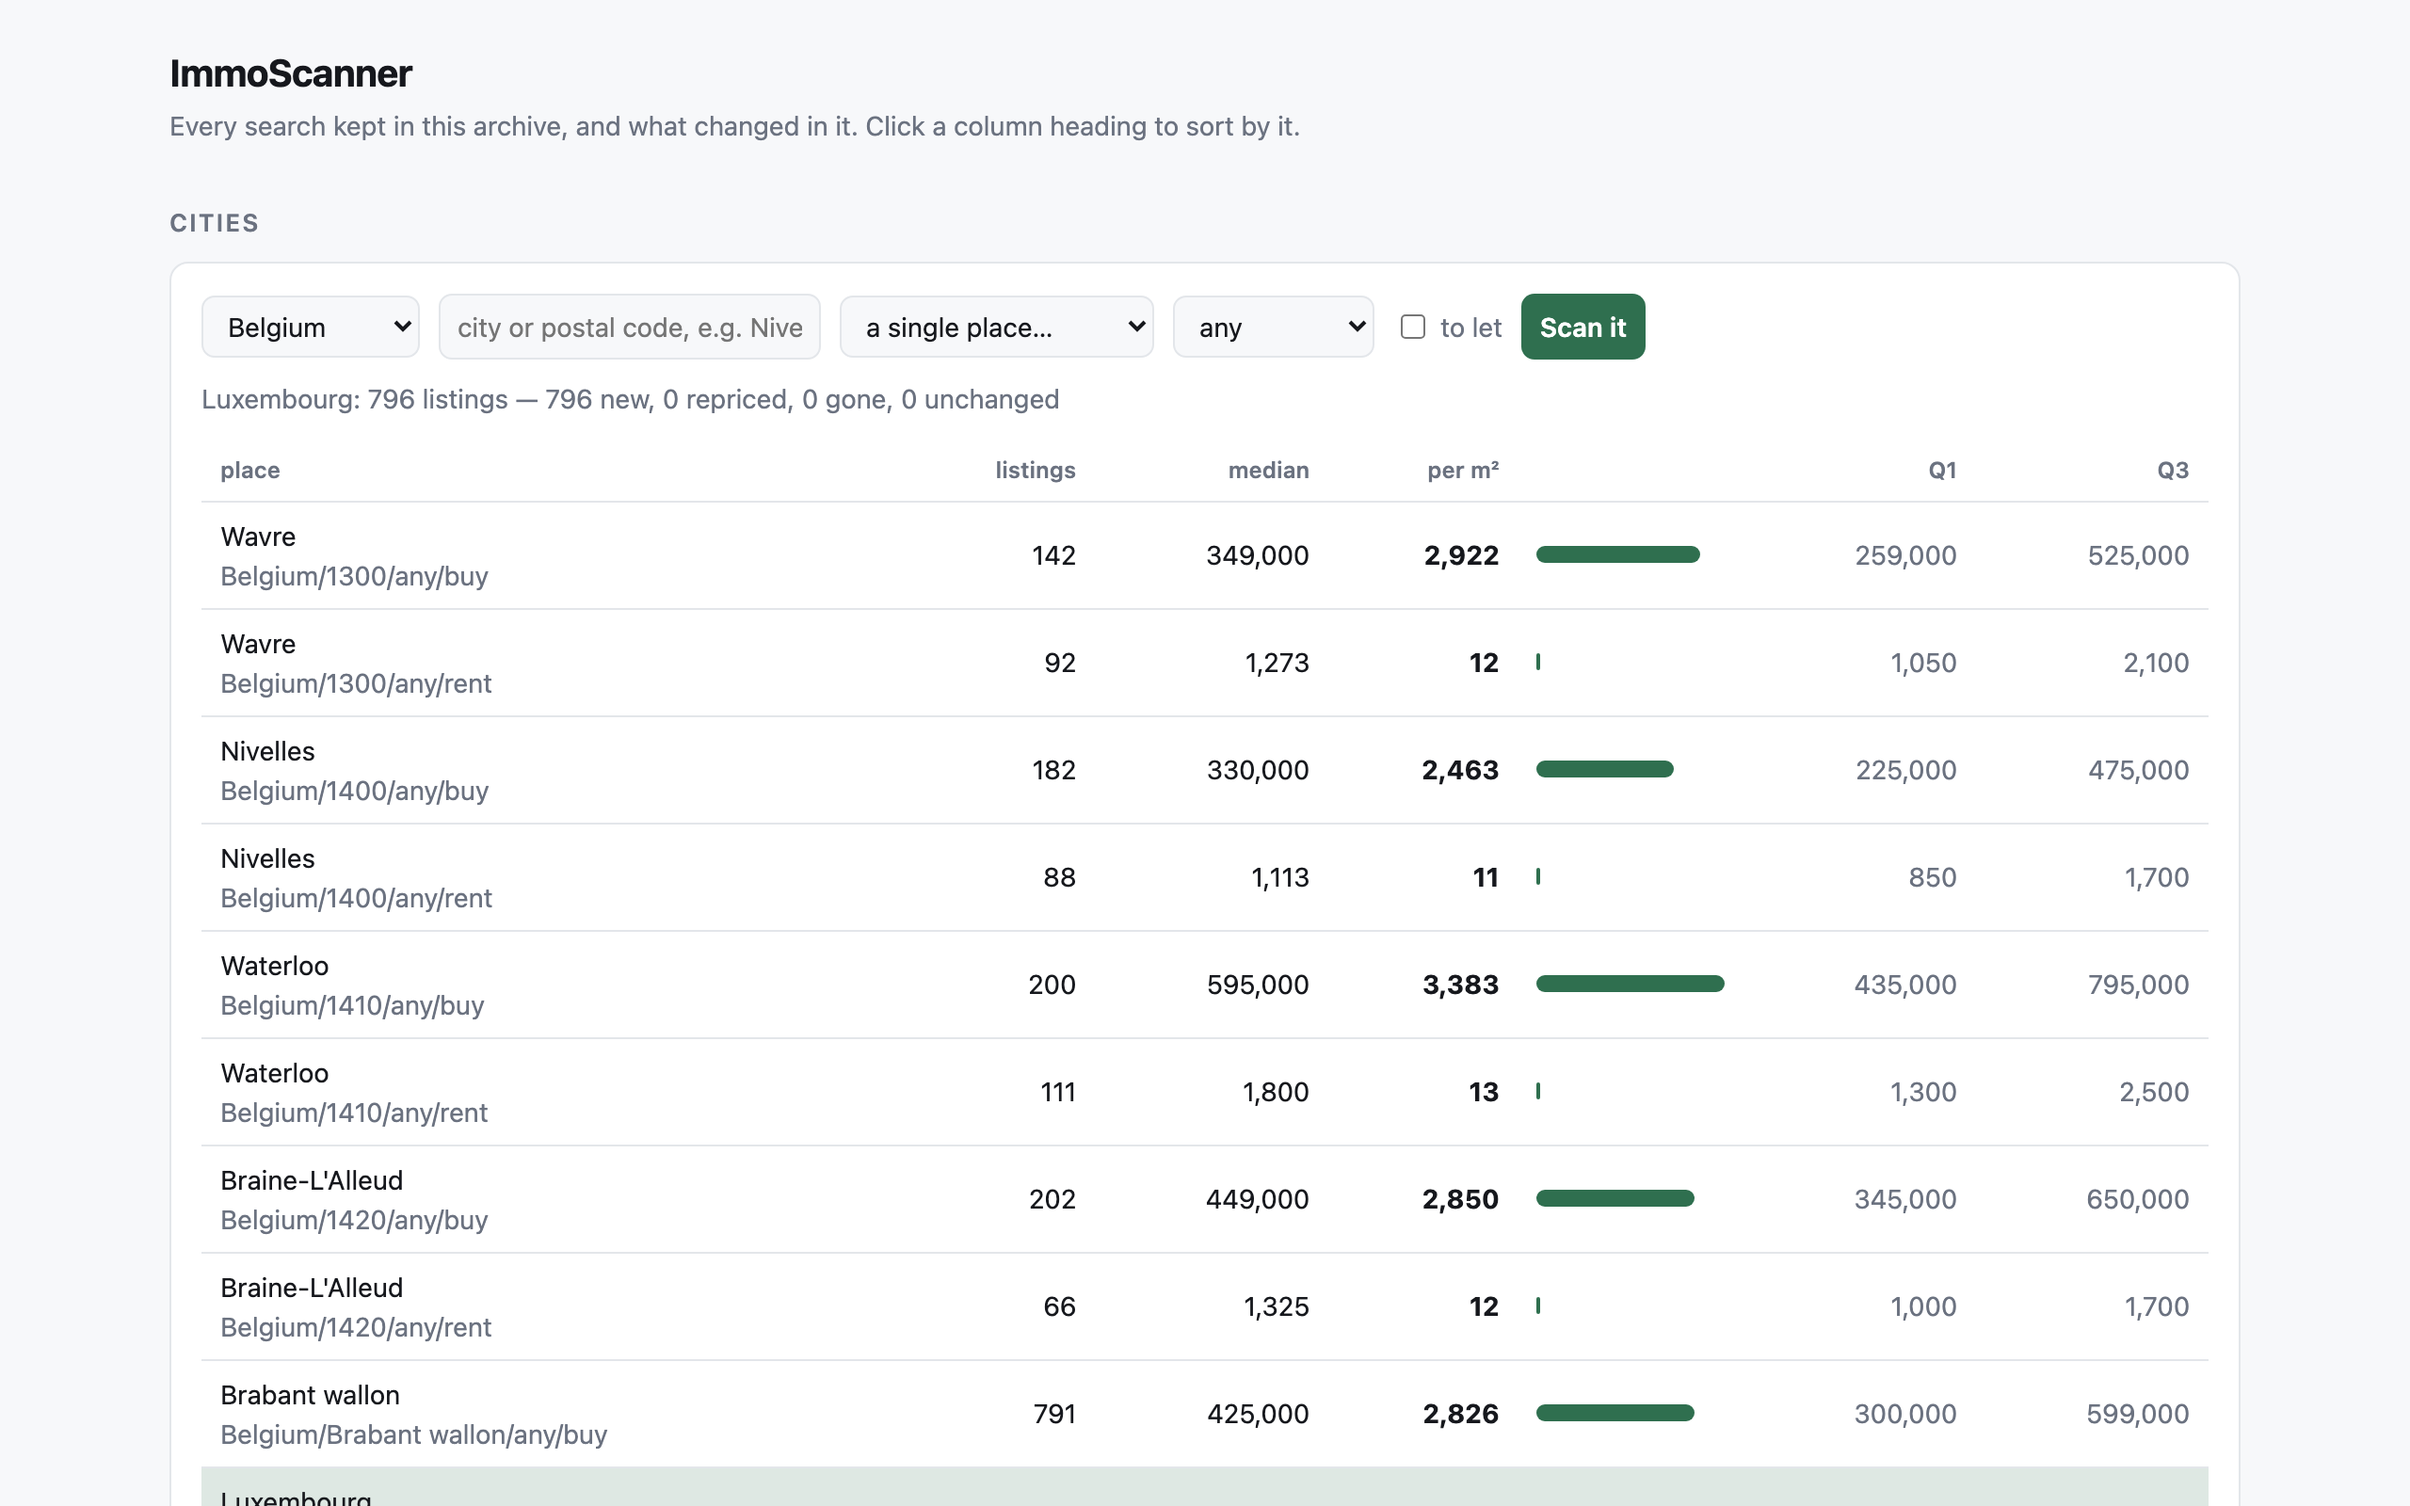
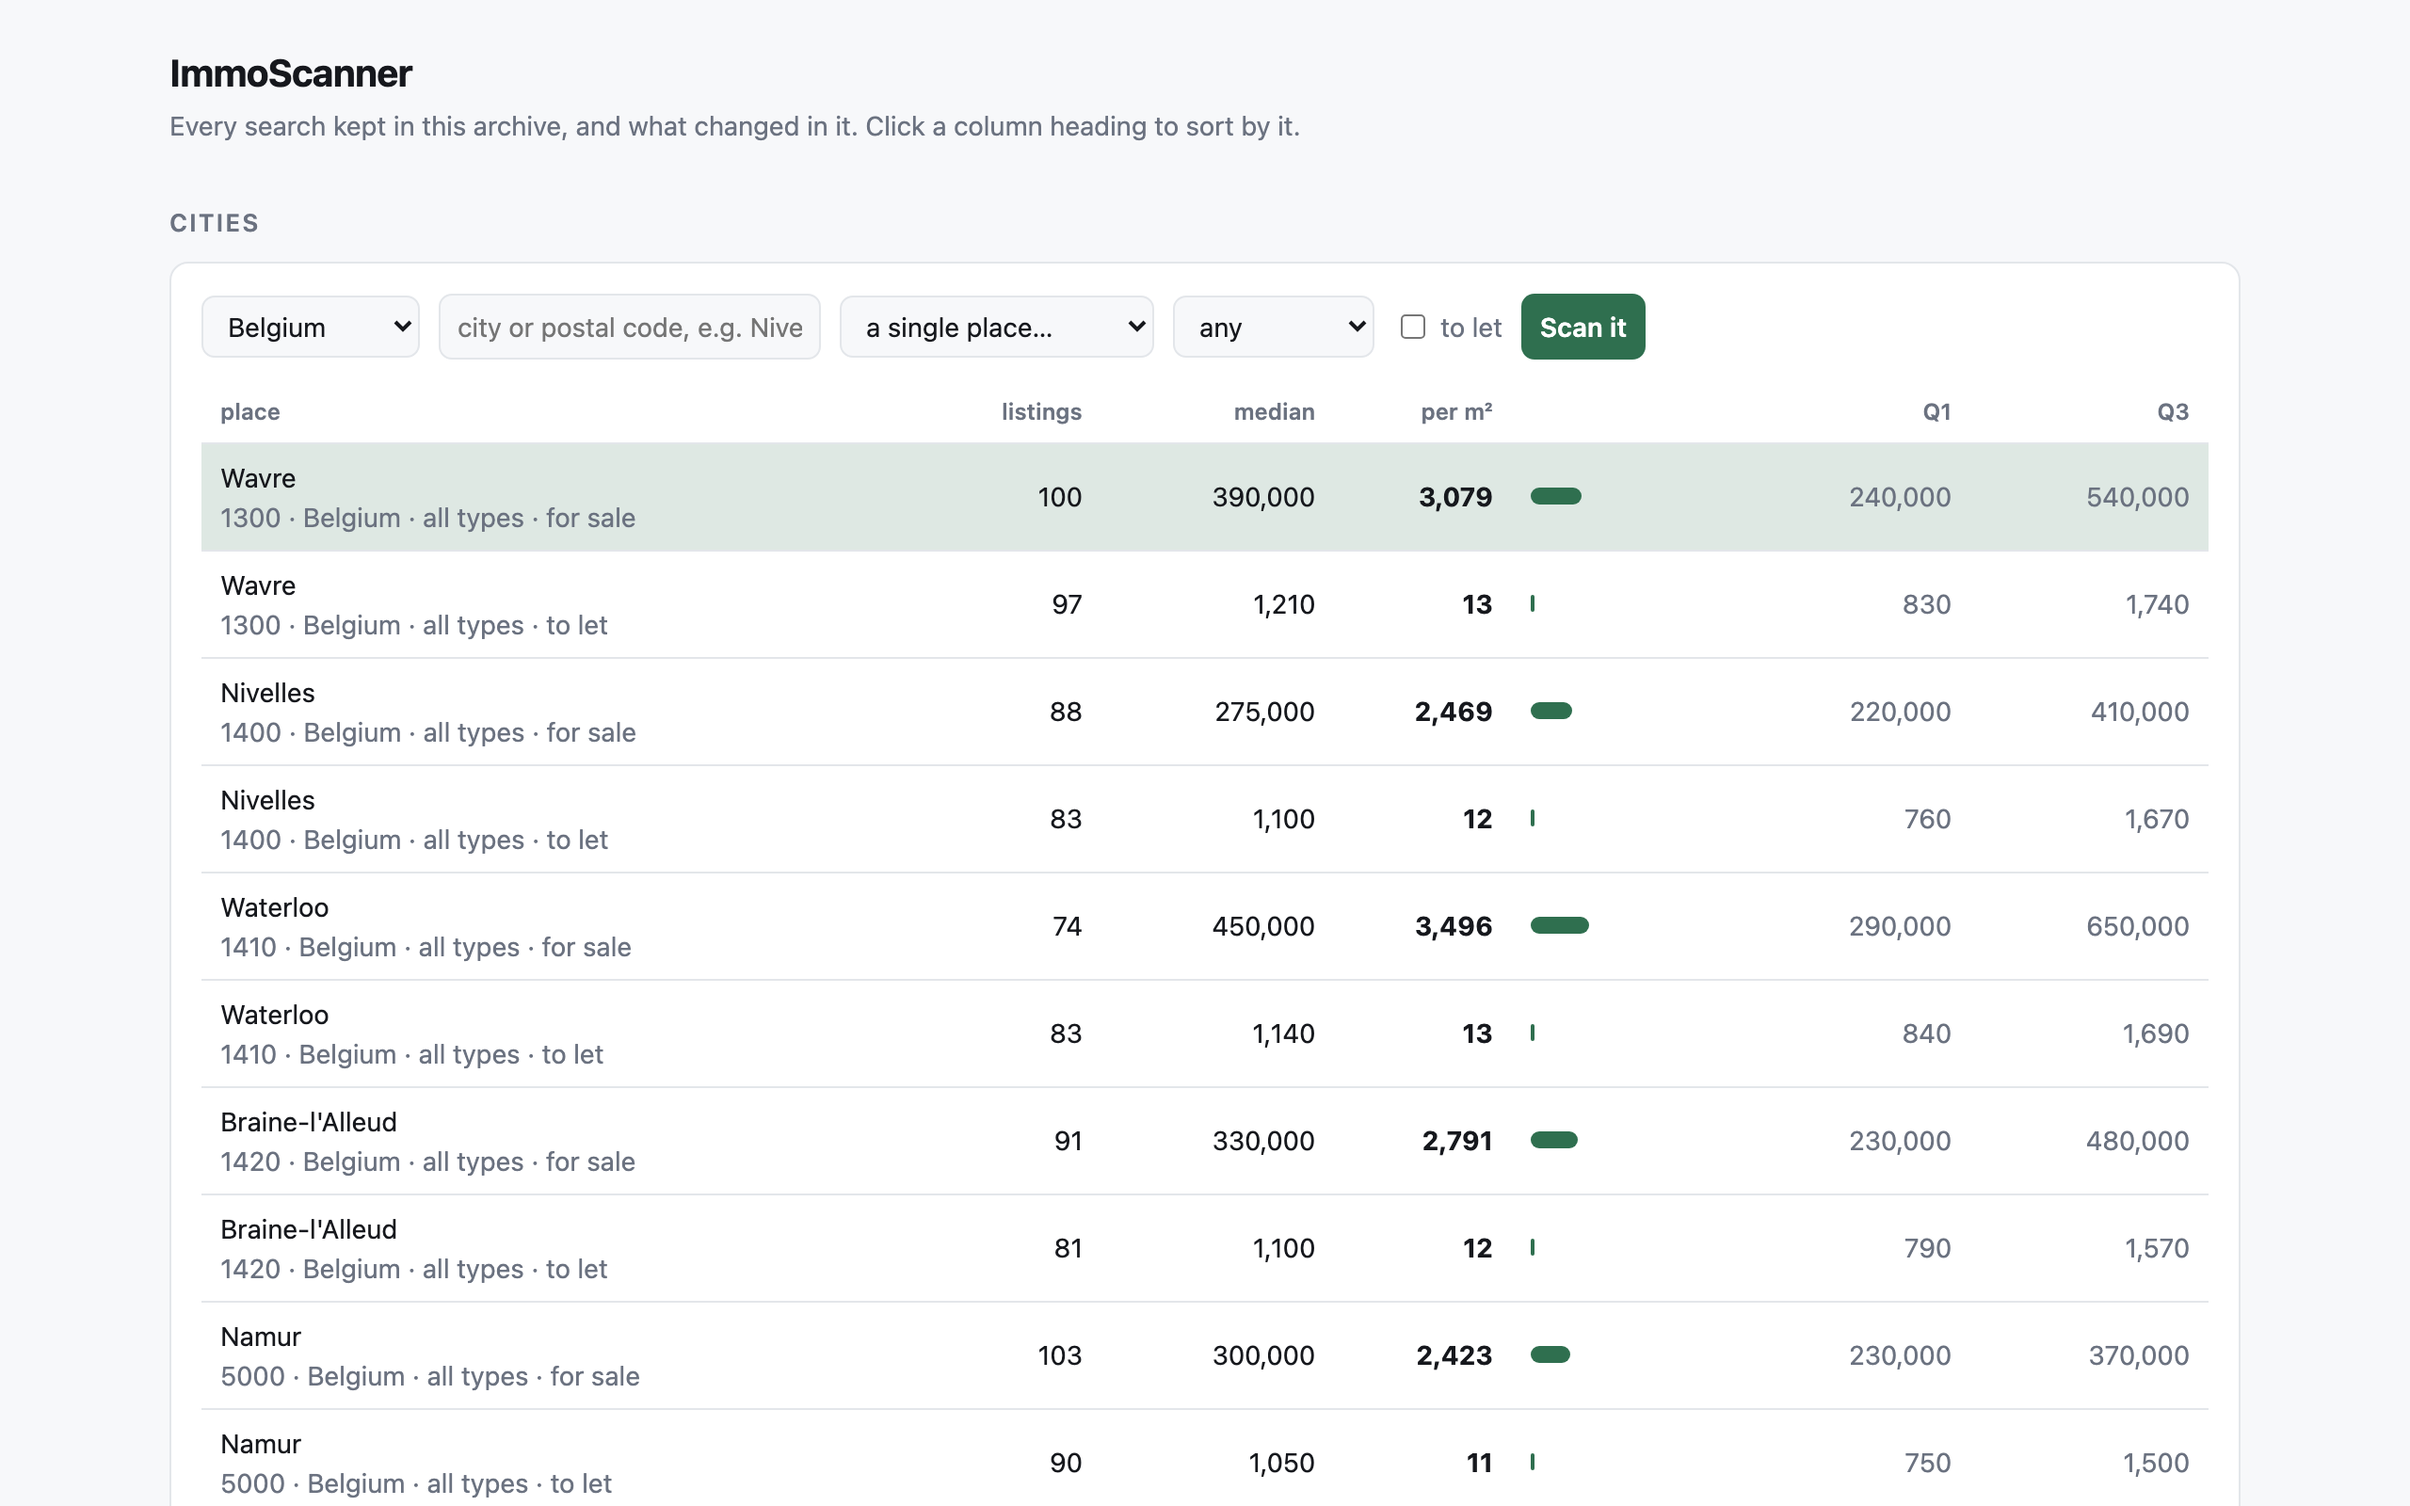
Add a demo archive to try the explorer without scanning
Made-up listings over four weekly scans, so new listings, price cuts and
withdrawals all show. The README screenshot now comes from it.

diff --git a/scripts/demo_archive.py b/scripts/demo_archive.py
@@ -1,0 +1,103 @@
+"""Build a demo archive of made-up listings, to try the explorer without scanning.
+
+    uv run python scripts/demo_archive.py
+    uv run immoscanner Belgium --serve --store demo.db
+
+Every listing is invented: no portal's text, no real address, no live url. The
+archive holds four weekly scans, so new listings, price cuts and withdrawals all
+show up the way they would after a month of real use.
+"""
+
+import random
+import sys
+from datetime import datetime, timedelta, timezone
+from pathlib import Path
+
+from ImmoScanner.Archives.Store import Store
+from ImmoScanner.Means.RealEstateResearchResult import RealEstateResearchResult
+
+# country, postal code, town, centre, currency, sale price per m², rent per m²
+PLACES = [
+    ("Belgium", "1300", "Wavre", (50.717, 4.601), "EUR", 2900, 12.5),
+    ("Belgium", "1400", "Nivelles", (50.598, 4.328), "EUR", 2450, 12.0),
+    ("Belgium", "1410", "Waterloo", (50.715, 4.399), "EUR", 3400, 13.5),
+    ("Belgium", "1420", "Braine-l'Alleud", (50.683, 4.368), "EUR", 2850, 12.5),
+    ("Belgium", "5000", "Namur", (50.467, 4.867), "EUR", 2300, 11.5),
+    ("Switzerland", "1003", "Lausanne", (46.520, 6.633), "CHF", 11000, 33.0),
+    ("Switzerland", "1618", "Châtel-Saint-Denis", (46.527, 6.900), "CHF", 7200, 22.0),
+]
+
+PORTALS = {"EUR": ["immoweb.be", "immovlan.be"], "CHF": ["comparis.ch"]}
+SOURCES = ["homegate.ch", "immoscout24.ch", "comparis.ch"]
+
+SCANS = 4
+FIRST_SCAN = datetime(2026, 9, 9, 9, 0, tzinfo=timezone.utc)
+
+
+def listing(rng, number, place, deal):
+    country, postal_code, town, (lat, lon), currency, sale_m2, rent_m2 = place
+    kind = rng.choice(["House", "Apartment"])
+    surface = rng.randint(90, 260) if kind == "House" else rng.randint(40, 140)
+    if deal == "rent":
+        surface = int(surface * 0.75)
+    bedrooms = max(1, surface // 45)
+    platform = rng.choice(PORTALS[currency])
+
+    result = RealEstateResearchResult()
+    result.id = f"demo-{number}"
+    result.platform = platform
+    result.source = rng.choice(SOURCES) if platform == "comparis.ch" else ""
+    result.url = f"https://example.com/demo/{number}"
+    result.description = f"{bedrooms}-bedroom {kind.lower()} in {town} (demo)"
+    result.type = kind
+    result.postal_code = postal_code
+    result.city = town
+    result.currency = currency
+    result.livable_square_meters = surface
+    result.bedrooms_number = bedrooms
+    if deal == "buy":
+        result.price = round(surface * sale_m2 * rng.uniform(0.75, 1.3), -4)
+    else:
+        result.price = round(surface * rent_m2 * rng.uniform(0.8, 1.25), -1)
+    # Only the portals that geocode get a position, as in a real scan.
+    if platform != "immovlan.be":
+        result.latitude = lat + rng.uniform(-0.02, 0.02)
+        result.longitude = lon + rng.uniform(-0.03, 0.03)
+    return result
+
+
+def build(path):
+    rng = random.Random(42)
+    Path(path).unlink(missing_ok=True)
+    numbers = iter(range(100000, 1000000))
+
+    with Store(path) as archive:
+        for place in PLACES:
+            for deal in ("buy", "rent"):
+                key = archive.search_key(place[0], place[1], "any", deal)
+                market = [
+                    listing(rng, next(numbers), place, deal)
+                    for _ in range(rng.randint(40, 90))
+                ]
+
+                for week in range(SCANS):
+                    if week:
+                        # A week on the market: some sell, some get cheaper, some arrive.
+                        market = [item for item in market if rng.random() > 0.08]
+                        for item in market:
+                            if rng.random() < 0.07:
+                                cut = 0.97 if deal == "buy" else 0.95
+                                item.price = round(item.price * cut, -3 if deal == "buy" else 1)
+                        market += [
+                            listing(rng, next(numbers), place, deal)
+                            for _ in range(rng.randint(2, 8))
+                        ]
+
+                    seen_at = (FIRST_SCAN + timedelta(weeks=week)).isoformat()
+                    archive.record(key, market, seen_at=seen_at)
+
+
+if __name__ == "__main__":
+    target = sys.argv[1] if len(sys.argv) > 1 else "demo.db"
+    build(target)
+    print(f"demo archive written to {target}")

diff --git a/README.md b/README.md
@@ -24,6 +24,8 @@
 
 <p align="center">
   <img src="docs/explorer.png" alt="The ImmoScanner explorer comparing towns in Walloon Brabant" width="900">
+  <br>
+  <em>The explorer, comparing towns side by side. <a href="#try-it-without-scanning">Try it with demo data</a> in two commands.</em>
 </p>
 
 ## ✨ Features
@@ -43,6 +45,17 @@ uv sync
 uv run python -m rustwright install chromium
 uv run immoscanner Belgium --city Namur
 ```
+
+### Try it without scanning
+
+Build a demo archive of made-up listings (seven towns, four weekly scans), then open it in your browser:
+
+```bash
+uv run python scripts/demo_archive.py
+uv run immoscanner Belgium --serve --store demo.db
+```
+
+Then go to **http://127.0.0.1:8765**.
 
 > [!TIP]
 > To use a specific Chromium build, set the `IMMOSCANNER_BROWSER_PATH` environment variable.
